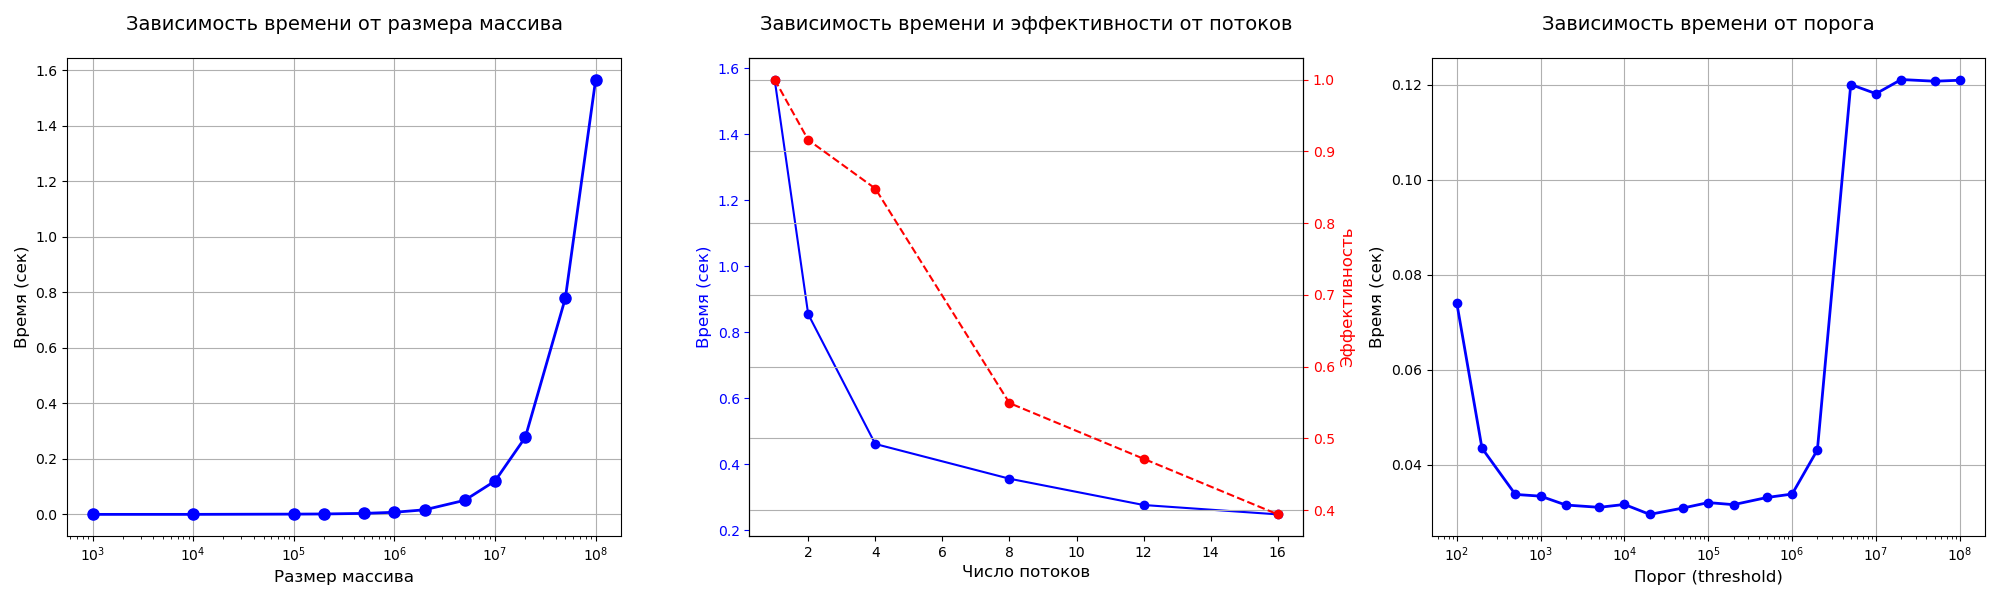
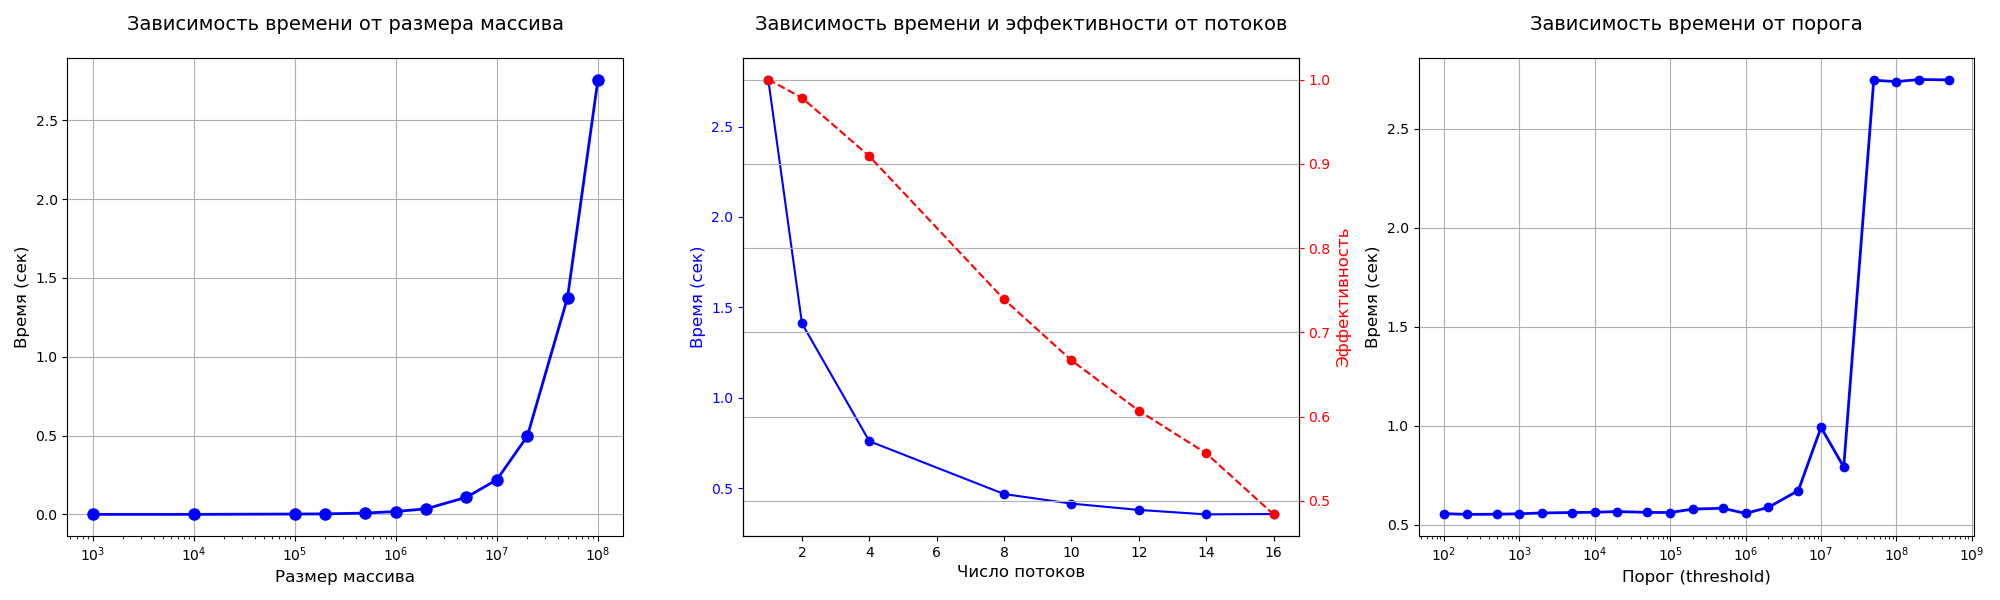
no taskwait

diff --git a/lab2.5/parallel.cpp b/lab2.5/parallel.cpp
@@ -35,24 +35,17 @@ void quicksort_parallel(float *v, int low, int high, int threshold) {
     partition(v, low, high, i, j);
     
     // массив и подмассивы разделенные пивотом должны быть >= threshhold ВСЕ чтобы использовать задачи
-    if ((high - low) < threshold || (j - low < threshold || high - i < threshold)) {
-        if (low < j)
-            quicksort_parallel(v, low, j, threshold);
-        if (i < high)
-            quicksort_parallel(v, i, high, threshold);
-    } else {
-        // сортировка левой части
-        #pragma omp task shared(v) firstprivate(low, j)
-        {
-            quicksort_parallel(v, low, j, threshold);
-        }
-        #pragma omp task shared(v) firstprivate(i, high)
-        {
-            quicksort_parallel(v, i, high, threshold);
-        }
-
-        #pragma omp taskwait
+    #pragma omp task shared(v) firstprivate(low, j, threshold) if((j - low) >= threshold)
+    {
+        quicksort_parallel(v, low, j, threshold);
     }
+    
+    #pragma omp task shared(v) firstprivate(i, high, threshold) if((high - i) >= threshold)
+    {
+        quicksort_parallel(v, i, high, threshold);
+    }
+
+    // #pragma omp taskwait
 }
 
 bool is_sorted(float *v, int low, int high) {
@@ -97,13 +90,13 @@ int main(int argc, char **argv) {
         auto end = std::chrono::high_resolution_clock::now();
         std::chrono::duration<double> elapsed = end - start;
 
-        // if (!is_sorted(arr, 0, size)) {
-        //     std::cout << "неправильно отсортировал" << std::endl;
-        // }
-
         if (elapsed.count() < best_time) {
             best_time = elapsed.count();
         }
+    }
+
+    if (!is_sorted(arr.data(), 0, params.size)) {
+        std::cout << "неправильно отсортировал" << std::endl;
     }
 
     std::cout << params.size << "," << params.threshold << "," << params.num_threads << "," << best_time << "\n";
